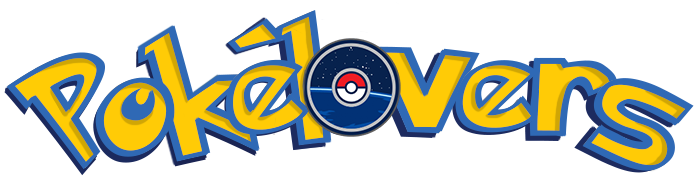
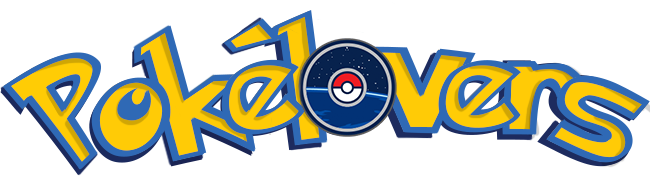
index.html, main.js, data.js, style.css, images

diff --git a/src/index.html b/src/index.html
@@ -6,34 +6,162 @@
     <title>PokeLovers</title>
     <link rel="stylesheet" href="style.css" />
     <link href="https://fonts.googleapis.com/css2?family=Roboto&display=swap" rel="stylesheet">
+    <script src="https://kit.fontawesome.com/dc9ad3619f.js" crossorigin="anonymous"></script>
 </head>
 
 <body>
-    <ul>
-        <li><img src="https://vignette.wikia.nocookie.net/es.pokemon/images/1/19/Logo_Pok%C3%A9mon_GO.png/revision/latest?cb=20150910124751"></li>
-        <li><a href="#index.html">Inicio</a></li>
+    <div class="flex-container">
+        <ul>
+            <li><img src="./images/Pokelovers.png"></li>
+            <li><a href="#index.html" id="#inicio">Inicio</a></li>
 
-        <li class="dropdown">
-            <a href="#" class="dropbtn">Menú Novato</a>
-            <div class="dropdown-content">
-                <a href="#">¿Qué es un Pokémon?</a>
-                <a href="#">¿Qué es Pokédex?</a>
-                <a href="#">¿Qué es un Tipo de Pokémon?</a>
+            <li class="dropdown">
+                <a href="#novato" class="dropbtn">Novato</a>
+                <div class="dropdown-content">
+                    <a href="#pokemon">¿Qué es un Pokémon?</a>
+                    <a href="#pokedex">¿Qué es Pokédex?</a>
+                    <a href="#pokeTipo">¿Qué es un Tipo de Pokémon?</a>
+                </div>
+            </li>
+            <li class="dropdown">
+                <a href="#" class="dropbtn">Entrenador</a>
+                <div class="dropdown-content">
+                    <a href="#"id="all" value="all">Pokédex</a>
+                    <a href="#">Tipos</a>
+                </div>
+            </li>
+
+            <input type="text" id="formulario" class="form-control" placeholder="Buscar">
+            <i class="fas fa-search" type="button" id="lupa"></i>
+
+        </ul>
+
+       <!-- <img src="./images/PokebolaMarco.png" class="marco">
+        <img src="./images/PokebolaMarco.png" class="marcob">-->
+        <br>
+        <section id="origin">
+            <h1 class="text">¡¡Bienvenido a PokéLovers, nuestra Guía Pokémon, queremos saber si eres un Jugador Novato o si ya eres un Entrenador Pokémon, escoge una categoría!!</h1>
+            <!--<div><img src="./images/pokemon-iniciales.gif" class="gif"></div>
+ <div id="gifPoke"></div>-->
+            <a href="#novato"><button class="boton">Jugador Novato</button></a>
+            <a href="#entrenador"><button class="boton">Entrenador Pokémon</button></a>
+        </section>
+       <!-- <br><br><br><br>
+        <img src="./images/PokebolaMarco.png" class="marco">
+        <img src="./images/PokebolaMarco.png" class="marcob">
+        <br>
+
+        <br><br><br><br><br><br><br>-->
+        <section id="novato" class="pokePag">
+            <br>
+            <div class="container">
+                <a href="#pokemon"><button class="novato">¿Qué es un Pokémon?</button></a>
+                <a href="#pokedex"><button class="novato">¿Qué es Pokédex?</button></a>
+                <a href="#pokeTipo"><button class="novato">¿Qué es un Tipo de Pokémon?</button></a>
+            </div><br><br>
+            <div>
+                <img src="./images/pogo-8bit.jpg" class="novato">
             </div>
-        </li>
-        <li class="dropdown">
-            <a href="#" class="dropbtn">Menú Entrenador</a>
-            <div class="dropdown-content">
-                <a href="#">Pokédex</a>
-                <a href="#">Tipos</a>
+        </section>
+        <br><br><br><br>
+        <section id="pokemon" class="pokePag">
+            <br>
+            <div class="container">
+                <a href="#pokemon"><button class="novato">¿Qué es un Pokémon?</button></a>
+                <a href="#pokedex"><button class="novato">¿Qué es Pokédex?</button></a>
+                <a href="#pokeTipo"><button class="novato">¿Qué es un Tipo de Pokémon?</button></a>
+            </div><br>
+            <div>
+                <p class="definition">Son criaturas diversas, que las puedes encontrar en un medio salvaje o junto a los seres humanos. <br> Las personas que atrapan a los Pokémon (denominados “Entrenadores”) los crían y los cuidan. <br> En el recorrido los Pokémon crecen
+                    y tienen más experiencia, algunos llegan a evolucionar y ser más fuertes. <br> Existen 151 en la región de Kanto ¡te invitamos a conocerlos con nuestra guía!</p>
+                <img src="./images/pikachu.png" class="pikaimg">
             </div>
-        </li>
+        </section>
+        <br><br><br><br><br><br><br>
+        <section id="pokedex" class="pokePag">
+            <br>
+            <div class="container">
+                <a href="#pokemon"><button class="novato">¿Qué es un Pokémon?</button></a>
+                <a href="#pokedex"><button class="novato">¿Qué es Pokédex?</button></a>
+                <a href="#pokeTipo"><button class="novato">¿Qué es un Tipo de Pokémon?</button></a>
+            </div><br>
+            <div>
+                <p class="definition">La Pokédex es un artefacto que recolecta información sobre los Pokémon, <br> se identifican con una imagen y su número identificador. Cuando consigues a uno puedes consultar la Pokédex seleccionando la imagen del Pokémon para conocer toda
+                    su información, <br> sus tipos, ataques, fortalezas, peso, altura, etc... <br> Es un instrumento indispensable que entrega información detallada de cada uno de ellos.
+                </p>
+                <img src="./images/Pokedex1.png" class="pokeimg">
+            </div>
+        </section>
+        <br><br><br><br>
+        <section id="pokeTipo" class="pokePag">
+            <br>
+            <div class="container">
+                <a href="#pokemon"><button class="novato">¿Qué es un Pokémon?</button></a>
+                <a href="#pokedex"><button class="novato">¿Qué es Pokédex?</button></a>
+                <a href="#pokeTipo"><button class="novato">¿Qué es un Tipo de Pokémon?</button></a>
+            </div><br>
+            <div>
+                <p class="definition">Los tipos son elementales, simplemente tipos, son atributos asociados a los Pokémon y los ataques que les dan ventajas o desventajas sobre otros. <br> En la Región de Kanto encontramos 16 tipos en total. <br> Cada Pokémon puede tener uno
+                    o dos tipos. <br> Cuando solo tiene uno, se les llama Pokémon de tipo puro, cuando tiene dos el primero se le llama tipo primario y al otro tipo secundario. <br> Los ataques, por otro lado, solo pueden tener un tipo.
+                </p>
+                <br><br><br><br><br>
+                <img src="./images/Icon_Agua.png" class="typeimg">
+                <img src="./images/Icon_Bicho.png" class="typeimg">
+                <img src="./images/Icon_Eléctrico.png" class="typeimg">
+                <img src="./images/Icon_Fuego.png" class="typeimg">
+                <br><br><br><br><br>
+            </div>
 
-        <input type="text" id="formulario" class="form-control" placeholder="Buscar">
-        <button class="btn" id="lupa">Buscar</button>
+        </section>
+        <br>
+        <section id="entrenador"class="pokePag">
+            <br>
+            <h2 class="text">¡¡Eres todo un Entrenador Pokémon, aquí encontrarás toda la información que necesites de los Pokémon de la Región de Kanto, escoge tu tipo de búsqueda!!
+            </h2>
+            <br><br><br><br>
+            <div class="flex-position">
+                <a href="#pokedexKanto">
+                    <figure>
+                        <img src="./images/Pokedex1.png" class="pokedeximg" alt="Pokédex Kanto">
+                        <figcaption>Pokédex Kanto</figcaption>
+                    </figure>
+                </a>
 
-    </ul>
-    <div id="root"></div>
+                <a href="#pokeType">
+                    <figure>
+                        <img src="./images/PokeBallRed.png" class="pokeballimg" alt="Tipos de Pokémon">
+                        <figcaption>Tipos de Pokémon</figcaption>
+                    </figure>
+                </a>
+            </div>
+            <br><br><br><br><br>
+        </section>
+
+        <section id="pokedexKanto" class="pokePag">
+            <h2>Pokédex Región Kanto</h2>
+
+            <li class="navfilter">
+                <a href="" class="dropfilter">Ordenar por</a>
+                <div class="filter-menu">
+                    <a href="">Nombre A-Z</a>
+                    <a href="">Nombre Z-A</a>
+                    <a href="">Número</a>
+                    <a href="">Tipos</a>
+                </div>
+                <div></div>
+                <div class="lookCard" id="lookCard">
+                    <div class="lookPoke" id="lookPoke"> 
+                    </div>
+                  </div>
+                  <div class="numberPoke" id="numberPoke"> 
+                </div>
+            </li>
+        </section>
+
+        <div id="root"></div>
+        <section id="pokeType">
+        </section>
+   <!--</div>--> 
     <script src="main.js" type="module"></script>
 
 </body>

diff --git a/src/main.js b/src/main.js
@@ -1,16 +1,93 @@
-import { example } from './data.js';
-// import data from './data/lol/lol.js';
-import data from './data/pokemon/pokemon.js';
-// import data from './data/rickandmorty/rickandmorty.js';
+import pokeData from './data/pokemon/pokemon.js';
+import { allPoke, orderDataAz, orderDataZa } from './data.js';
 
-console.log(example, data);
+//const cardPokedex = document.getElementById("lookNumberPokedex");
+const card = document.getElementById("lookPoke");
+//const card1 = document.getElementById("numberPoke");
+//Búsqueda interna (header) 
+//const formulario = document.querySelector('#formulario');
+//const lupa = document.querySelector('#lupa');
 
-const formulario = document.querySelector('#formulario');
+//const buscar = () => {
+//console.log(formulario.value);
+//const texto = formulario.value
+//}
+//Búsqueda interna (header) 
+const form = document.querySelector('#form');
 const lupa = document.querySelector('#lupa');
+const result = document.querySelector('#root');
 
-const buscar = () => {
-    console.log(formulario.value);
-    const texto = formulario.value
+const search = () => {
+    result.innerHTML = '';
+    const text = form.value.toLowerCase();
+    for (let pokeInfo of allPoke) {
+        let name = pokeInfo.name.toLowerCase();
+        if (name.indexOf(text) !== -1) {
+            result.innerHTML += `
+            <div class= "elemCard">${allPokeInfo}</div>` //traer el array
+        }
+    }
+    if (result.innerHTML === '') {
+        result.innerHTML += `
+        <div class="elemCard">Pokémon no encontrado</div>`
+    }
 }
+lupa.addEventListener('click', search)
+//form.addEventListener('keyup', search)
+//lupa.addEventListener('click', buscar)
+//imprimir pokeMarco
+//div
 
-lupa.addEventListener('click', buscar)
+
+//Imprimir imagen gif inicial
+document.getElementById("origin").innerHTML = '<img id="gif" src="./images/pokemon-iniciales.gif"/>';
+//crearElement('div', 'origin', 'gifPoke');
+//crearElement('IMG', "gif", "origin", '', '', "./images/pokemon-iniciales.gif");
+
+//Arreglo para llamar a la data de pokémon
+const dataPokedex = allPoke(pokeData.pokemon);
+const orderPokeAz = orderDataAz(allPoke);
+const orderPokeZa = orderDataZa(allPoke);
+
+//Muestra tarjetas de pokémon en pantalla
+function lookPokedex(dataInfo) {
+    let cardDesign = "";
+    for (let i = 0; i < dataInfo.length; i++) {
+        cardDesign += `
+        <div class="elemCard">
+        <div id='pokemon${dataInfo[i].id}' class="card${dataInfo[i].type[0]}">
+           <div class='pokeProperty'> 
+               <h2>${dataInfo[i].name}</h2>
+               <h3>${dataInfo[i].num}</h3>
+               <img class="imgPokemon" src="${dataInfo[i].img}"/>
+               <h3>${dataInfo[i].type[0]}</h3>
+           </div>
+       </div>
+       </div>`;
+    }
+    card.innerHTML = cardDesign;
+}
+lookPokedex(dataPokedex);
+//Boton del menu (pokédex)
+document.getElementById("all").addEventListener("click", all);
+function all() {
+    let originActual = document.getElementById("origin");
+    originActual.style.display = "none";
+    let lookPokedex = document.getElementById("pokedexKanto");
+    lookPokedex.style.display = "block";
+}
+//Para ordenar alfabéticamente (a-z / z-a)
+//const menuPokedex = document.querySelector(".ordenarPokemon");
+//selectElement.addEventListener("change", (e) => {
+const resultado = '$ { e.target.value }';
+//console.log(resultado);
+if (resultado === "A-Z") {
+    viewAllPokemon(orderPokeAz);
+}
+if (resultado === "Z-A") {
+    viewAllPokemon(orderPokeZa);
+} else if (resultado === "All") {
+    //       viewAllPokemon(allPokeData);
+}
+//    return menuPokedex;
+//});

diff --git a/src/data.js b/src/data.js
@@ -1,9 +1,62 @@
-// estas funciones son de ejemplo
 
-export const example = () => {
-  return 'example';
+export const allPoke = (dataInfo) => {
+  const newPokeArray = [];
+  for (let i = 0; i < dataInfo.length; i += 1) {
+      newPokeArray.push({
+          id: dataInfo[i].id,
+          num: dataInfo[i].num,
+          name: dataInfo[i].name,
+          img: dataInfo[i].img,
+          type: dataInfo[i].type,
+          height: dataInfo[i].height,
+          weight: dataInfo[i].weight,
+          candy: dataInfo[i].candy,
+          candy_count: dataInfo[i].candy_count,
+          egg: dataInfo[i].egg,
+          spawn_chance: dataInfo[i].spawn_chance,
+          avg_spawns: dataInfo[i].avg_spawns,
+          spawn_time: dataInfo[i].spawn_time,
+          multipliers: dataInfo[i].multipliers,
+          weaknesses: dataInfo[i].weaknesses,
+          prev_evolution: dataInfo[i].prev_evolution,
+          next_evolution: dataInfo[i].next_evolution,
+      });
+  }
+  return newPokeArray;
 };
 
-export const anotherExample = () => {
-  return 'OMG';
+//Ordena pokemon por alfabeto A-Z
+export const orderDataAz = (dataInfo) => {
+  const newPokeArray = [];
+  for (let i = 0; i < dataInfo.length; i++) {
+      newPokeArray.push(dataInfo[i]);
+  }
+  newPokeArray.sort((a, b) => {
+      if (a.name > b.name) {
+          return 1;
+      }
+      if (a.name < b.name) {
+          return -1;
+      }
+      return 0;
+  });
+  return newPokeArray;
+};
+
+//Ordenar alfabéticamente desde Z-A
+export const orderDataZa = (dataInfo) => {
+  const newPokeArray = [];
+  for (let i = 0; i < dataInfo.length; i += 1) {
+      newPokeArray.push(dataInfo[i]);
+  }
+  newPokeArray.sort((a, b) => {
+      if (a.name > b.name) {
+          return -1;
+      }
+      if (a.name < b.name) {
+          return 1;
+      }
+      return 0;
+  });
+  return newPokeArray;
 };

diff --git a/src/style.css b/src/style.css
@@ -69,3 +69,36 @@ li.dropdown {
 .dropdown:hover .dropdown-content {
     display: block;
 }
+
+#Marco1{  
+position: absolute;
+width: 37px;
+height: 37px;
+left: 17px;
+top: 146px;
+background: url(images/PokebolaMarco.png);
+}
+.lookCard {
+    width: 90%;
+    margin: auto; 
+ }
+ .lookPoke{
+     display: flex;
+     flex-wrap: wrap;
+     justify-content: center;
+ }
+ /*.numberPoke{
+    display: flex;
+    flex-wrap: wrap;
+    justify-content: center;
+}*/
+
+/*Vista de pag*/
+#origin {
+    display: auto;
+}
+
+
+.pokePag {
+    display: none;
+}
